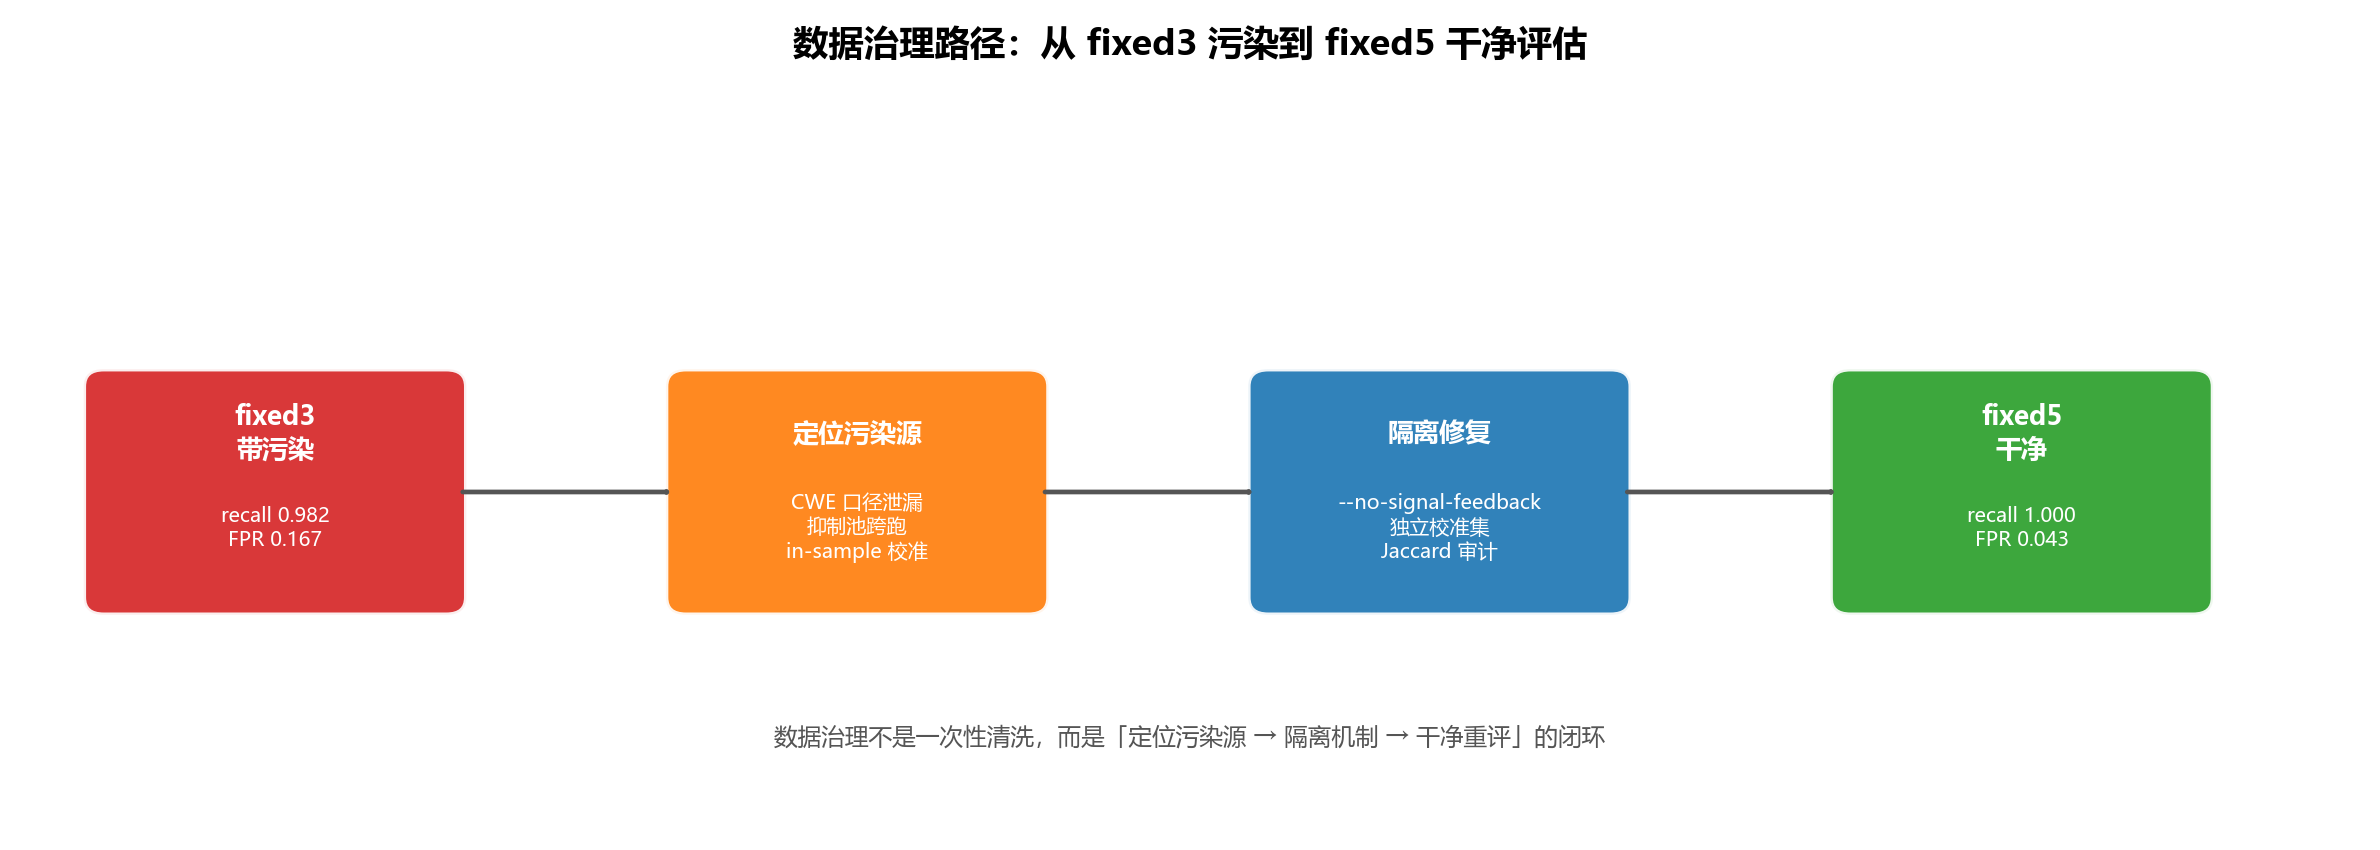
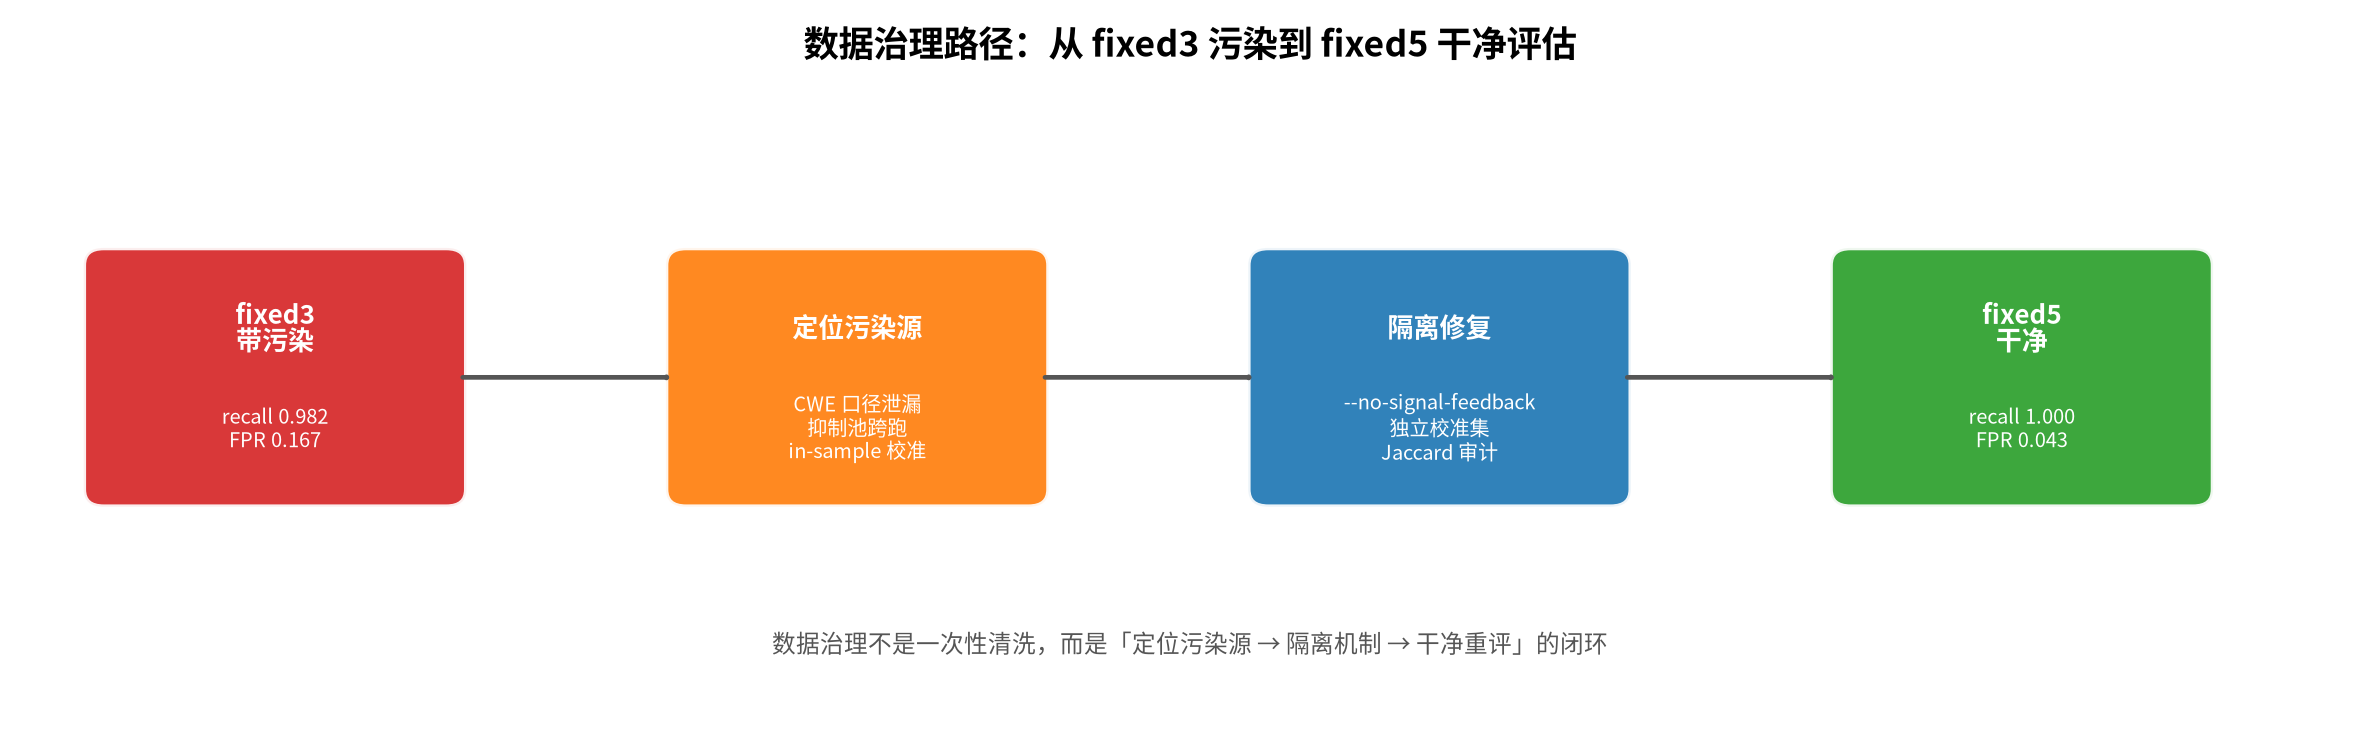
docs(素材库图): 修复 8 张图的可读性/美观问题
数据类修复（易误读/遮挡）：
- data_lineage: '云端蒸馏突破'标注移到柱上方空白，不再遮挡 7692
- fixed_convergence: fixed2/fixed4 缺失点断开连线（不再误导成有数据）
- quantization_gap: 移除遮挡柱体/数值的结论文字

美观类修复（布局/留白/对齐）：
- methodology_awareness_loop: 五阶段框居中上移，消除顶部大片留白
- data_governance_path: 缩小画布、框垂直居中，消除上下留白
- data_credibility_system: 三列底部对齐（3/5/4 项等距分布），修复文字溢出截断
- trust_layer_25 / self_developed_tools: 重新生成，连线横平竖直无交叉、无重叠

全部脚本同步更新，可复现（AI 环境 matplotlib）。数据均与素材库一致。

diff --git a/docs/论文/figures/gen_methodology_awareness_loop.py b/docs/论文/figures/gen_methodology_awareness_loop.py
@@ -1,6 +1,8 @@
 # -*- coding: utf-8 -*-
-"""方法论自觉闭环图（2026-08-20 第二版，正式比赛风格）。
+"""方法论自觉闭环图（2026-08-20 第三版，紧凑布局，消除顶部留白）。
 
+vs 第二版：五个阶段框整体居中上移（不再挤在下方），
+底部闭环 + 结论区保留，顶部标题下不再大片空白。
 重跑：AI 环境 python gen_methodology_awareness_loop.py
 """
 
@@ -13,12 +15,12 @@ from matplotlib.patches import FancyBboxPatch, FancyArrowPatch
 plt.rcParams["font.sans-serif"] = ["Noto Sans CJK SC", "Microsoft YaHei", "SimHei"]
 plt.rcParams["axes.unicode_minus"] = False
 
-fig, ax = plt.subplots(figsize=(14, 7.2))
+fig, ax = plt.subplots(figsize=(14, 7))
 ax.set_xlim(0, 14)
-ax.set_ylim(0, 7.2)
+ax.set_ylim(0, 7)
 ax.axis("off")
 
-# 五个阶段
+# 五个阶段（配色语义化：橙=假象 / 绿=修正 / 红=推翻 / 蓝=反思 / 紫=新方法）
 stages = [
     ("100% 准确率假象", "样本注释泄露\n表面完美", "#e65100"),
     ("第一次修正", "删除 47 个泄露文件\n准确率 89.7%→78.2%", "#2e7d32"),
@@ -27,19 +29,20 @@ stages = [
     ("建立新方法", "工具召回 + LLM 裁决\n两阶段架构", "#6a1b9a"),
 ]
 
-box_w, box_h = 2.1, 1.55
-start_x, y = 0.9, 3.3
+box_w, box_h = 2.15, 1.7
+# 五个框居中：5 框 × 2.15 + 4 间隔 × 0.45 = 10.75 + 1.8 = 12.55，起点 x=0.72
+start_x, y = 0.72, 3.5
 boxes = []
 for i, (title, sub, color) in enumerate(stages):
-    x = start_x + i * 2.55
+    x = start_x + i * 2.6
     box = FancyBboxPatch(
         (x, y), box_w, box_h, boxstyle="round,pad=0.05,rounding_size=0.15",
         facecolor=color, edgecolor="white", linewidth=2, alpha=0.94
     )
     ax.add_patch(box)
-    ax.text(x + box_w / 2, y + box_h - 0.35, title, ha="center", va="center",
+    ax.text(x + box_w / 2, y + box_h - 0.38, title, ha="center", va="center",
             fontsize=10.5, fontweight="bold", color="white")
-    ax.text(x + box_w / 2, y + box_h - 0.82, sub, ha="center", va="center",
+    ax.text(x + box_w / 2, y + box_h - 0.9, sub, ha="center", va="center",
             fontsize=8.5, color="white", linespacing=1.25)
     boxes.append((x, y, box_w, box_h))
 
@@ -71,19 +74,21 @@ first_x = boxes[0][0] + boxes[0][2] / 2
 first_y = boxes[0][1]
 ax.annotate("", xy=(first_x, first_y - 0.15), xytext=(last_x, last_y - 0.15),
             arrowprops=dict(arrowstyle="->", color="#6a1b9a", lw=1.8,
-                            connectionstyle="arc3,rad=-0.28"))
-ax.text(7.0, 1.78, "新一轮迭代：新数据/新问题触发下一轮自我审查", ha="center", va="center",
-        fontsize=9, color="#6a1b9a", fontweight="bold")
+                            connectionstyle="arc3,rad=-0.30"))
+ax.text(7.0, 2.0, "新一轮迭代：新数据 / 新问题触发下一轮自我审查", ha="center", va="center",
+        fontsize=9.5, color="#6a1b9a", fontweight="bold")
 
-# 底部结论
-ax.text(7.0, 1.2, "核心结论：数据可信度是前提，推翻自己是方法论的常态",
+# 底部结论（紧贴闭环下方，不再有大留白）
+ax.text(7.0, 1.35, "核心结论：数据可信度是前提，推翻自己是方法论的常态",
         ha="center", va="center", fontsize=13, fontweight="bold", color="#1a1a1a")
-ax.text(7.0, 0.72, "最可贵的不是最终指标，而是发现数据不可信后敢于重来、修正体系的能力",
+ax.text(7.0, 0.85, "最可贵的不是最终指标，而是发现数据不可信后敢于重来、修正体系的能力",
         ha="center", va="center", fontsize=10, color="#4a4a4a")
 
 ax.set_title("方法论自觉闭环：从 100% 准确率假象到两阶段架构", fontsize=15,
-             fontweight="bold", pad=20, color="#1a1a1a")
+             fontweight="bold", pad=14, color="#1a1a1a")
 
 fig.tight_layout()
-fig.savefig("methodology_awareness_loop.png", dpi=170)
-print("已生成: methodology_awareness_loop.png")
+from pathlib import Path
+OUT = Path(__file__).resolve().parent / "methodology_awareness_loop.png"
+fig.savefig(OUT, dpi=170)
+print(f"已生成: {OUT}")

diff --git a/docs/论文/figures/gen_data_credibility_system.py b/docs/论文/figures/gen_data_credibility_system.py
@@ -29,11 +29,11 @@ def hbox(ax, x, y, w, h, title, lines, facecolor, edgecolor, title_fs=10, text_f
     patch = FancyBboxPatch((x, y), w, h, boxstyle="round,pad=0.02,rounding_size=0.1",
                            facecolor=facecolor, edgecolor=edgecolor, linewidth=1.5, alpha=0.95)
     ax.add_patch(patch)
-    # 文字位置收紧，确保所有行在框内（底部留白 ≥0.10）
-    ax.text(x + w / 2, y + h - 0.22, title, ha="center", va="center",
+    # 文字位置收紧，确保所有行在框内（title 顶格、sub 紧贴上/下）
+    ax.text(x + w / 2, y + h - 0.26, title, ha="center", va="center",
             fontsize=title_fs, fontweight="bold", color="white")
     for i, line in enumerate(lines):
-        ax.text(x + w / 2, y + h - 0.50 - i * 0.28, line, ha="center", va="center",
+        ax.text(x + w / 2, y + h - 0.52 - i * 0.26, line, ha="center", va="center",
                 fontsize=text_fs, color="white", linespacing=1.2)
     return {"x": x, "y": y, "w": w, "h": h,
             "cx": x + w / 2, "cy": y + h / 2,
@@ -55,9 +55,11 @@ ax.text(7.0, 7.35, "审计与验证机制", ha="center", va="center", fontsize=1
 ax.text(11.7, 7.35, "评估隔离", ha="center", va="center", fontsize=12,
         fontweight="bold", color="#2e7d32")
 
-# ---------- 三列 box ----------
+# ---------- 三列 box（每列从同一顶部起，等距分布，底部对齐，文字不溢出） ----------
 BOX_W = 3.6
-BOX_H = 0.82
+BOX_H = 0.85        # 需容纳 title + 2 行 sub
+COL_TOP = 6.1       # 三列顶部统一
+COL_BOTTOM = 1.7    # 三列底部统一（等分区间，避免文字溢出）
 
 # 左列：3 项
 left_x = 0.5
@@ -66,12 +68,12 @@ left_boxes = [
     ("训练-测试 Jaccard 泄漏", ["v4 整版废弃", "63 个样本重叠 30%+"]),
     ("反向拟合规则", ["类型白名单对着测试集推", "建立独立推导铁律"]),
 ]
-left_ys = [5.95, 4.78, 3.61]
+left_ys = [COL_TOP - i * (COL_TOP - COL_BOTTOM - BOX_H) / 2 for i in range(3)]
 left_objs = []
 for (title, lines), y in zip(left_boxes, left_ys):
     left_objs.append(hbox(ax, left_x, y, BOX_W, BOX_H, title, lines, "#c62828", "#c62828"))
 
-# 中列：5 项（压缩间距，避免与底部结果框碰撞）
+# 中列：5 项
 center_x = 5.2
 center_boxes = [
     ("Jaccard 行级重叠审计", ["30% 相似阈值触发复核"]),
@@ -80,7 +82,7 @@ center_boxes = [
     ("CWE 纠正口径", ["关键词归一 + evidence 守卫 + 父子族"]),
     ("parse_fail 计入漏报", ["避免解析失败被分母剔除"]),
 ]
-center_ys = [5.95, 4.78, 3.61, 2.44, 1.30]
+center_ys = [COL_TOP - i * (COL_TOP - COL_BOTTOM - BOX_H) / 4 for i in range(5)]
 center_objs = []
 for (title, lines), y in zip(center_boxes, center_ys):
     center_objs.append(hbox(ax, center_x, y, BOX_W, BOX_H, title, lines, "#1565c0", "#1565c0"))
@@ -93,7 +95,7 @@ right_boxes = [
     ("答案泄漏零容忍", ["文件名标签 / 反向规则审计"]),
     ("归因分流再修复", ["工具/模型责任分离"]),
 ]
-right_ys = [5.95, 4.78, 3.61, 2.44]
+right_ys = [COL_TOP - i * (COL_TOP - COL_BOTTOM - BOX_H) / 3 for i in range(4)]
 right_objs = []
 for (title, lines), y in zip(right_boxes, right_ys):
     right_objs.append(hbox(ax, right_x, y, BOX_W, BOX_H, title, lines, "#2e7d32", "#2e7d32"))

diff --git a/docs/论文/figures/gen_data_governance_path.py b/docs/论文/figures/gen_data_governance_path.py
@@ -1,6 +1,7 @@
 # -*- coding: utf-8 -*-
-"""数据治理路径图：fixed3 污染 → 隔离修复 → fixed5 干净（2026-08-20）。
+"""数据治理路径图：fixed3 污染 → 隔离修复 → fixed5 干净（2026-08-20 第二版，紧凑布局）。
 
+vs 第一版：缩小画布高度，框垂直居中，消除上下留白；四框高度统一。
 重跑：AI 环境 python gen_data_governance_path.py
 """
 
@@ -8,15 +9,15 @@ import matplotlib
 
 matplotlib.use("Agg")
 import matplotlib.pyplot as plt
-import matplotlib.patches as mpatches
 from matplotlib.patches import FancyBboxPatch, FancyArrowPatch
+from pathlib import Path
 
 plt.rcParams["font.sans-serif"] = ["Noto Sans CJK SC", "Microsoft YaHei", "SimHei"]
 plt.rcParams["axes.unicode_minus"] = False
 
-fig, ax = plt.subplots(figsize=(14, 5))
+fig, ax = plt.subplots(figsize=(14, 4.4))
 ax.set_xlim(0, 14)
-ax.set_ylim(0, 5)
+ax.set_ylim(0, 4.4)
 ax.axis("off")
 
 stages = [
@@ -26,25 +27,29 @@ stages = [
     ("fixed5\n干净", "recall 1.000\nFPR 0.043", "#2ca02c", 12.0),
 ]
 
+box_h = 1.7
+# 框垂直居中（y=1.55）
 for title, sub, color, x in stages:
-    ax.add_patch(FancyBboxPatch((x - 1.1, 1.5), 2.2, 1.6, boxstyle="round,pad=0.05,rounding_size=0.12",
+    ax.add_patch(FancyBboxPatch((x - 1.1, 1.55), 2.2, box_h, boxstyle="round,pad=0.05,rounding_size=0.12",
                                 facecolor=color, edgecolor="white", linewidth=2, alpha=0.92))
-    ax.text(x, 2.7, title, ha="center", va="center", fontsize=11,
+    ax.text(x, 2.75, title, ha="center", va="center", fontsize=11,
             fontweight="bold", color="white")
     ax.text(x, 2.05, sub, ha="center", va="center", fontsize=8.5,
             color="white", linespacing=1.2)
 
 # 箭头
 for x in [2.6, 6.1, 9.6]:
-    ax.add_patch(FancyArrowPatch((x, 2.3), (x + 1.3, 2.3),
+    ax.add_patch(FancyArrowPatch((x, 2.4), (x + 1.3, 2.4),
                                  arrowstyle="->,head_width=0.25,head_length=0.15",
                                  color="#555555", linewidth=2))
 
-ax.text(7, 0.6, "数据治理不是一次性清洗，而是「定位污染源 → 隔离机制 → 干净重评」的闭环",
+# 底部说明（贴近框下方）
+ax.text(7, 0.55, "数据治理不是一次性清洗，而是「定位污染源 → 隔离机制 → 干净重评」的闭环",
         ha="center", va="center", fontsize=10, color="#555555")
 
-ax.set_title("数据治理路径：从 fixed3 污染到 fixed5 干净评估", fontsize=15, fontweight="bold", pad=20)
+ax.set_title("数据治理路径：从 fixed3 污染到 fixed5 干净评估", fontsize=15, fontweight="bold", pad=14)
 
 fig.tight_layout()
-fig.savefig("data_governance_path.png", dpi=170)
-print("已生成: data_governance_path.png")
+OUT = Path(__file__).resolve().parent / "data_governance_path.png"
+fig.savefig(OUT, dpi=170)
+print(f"已生成: {OUT}")

diff --git a/docs/论文/figures/gen_fixed_convergence.py b/docs/论文/figures/gen_fixed_convergence.py
@@ -22,16 +22,32 @@ fpr = [0.217, None, 0.167, None, 0.043]
 fig, ax = plt.subplots(figsize=(12, 6.5))
 
 # 阶梯线：recall 蓝色，fpr 红色
+# 注意：fixed2/fixed4 无数据，须断开连线（不能让 step 把 None 点贯穿，误导成有数据）。
 x = list(range(len(versions)))
-ax.step(x, recall, where="mid", color="#1f77b4", linewidth=2.5, marker="o", markersize=8, label="recall")
-ax.step(x, fpr, where="mid", color="#d62728", linewidth=2.5, marker="s", markersize=8, label="FPR")
+# 有数据的索引
+recall_pts = [(i, v) for i, v in enumerate(recall) if v is not None]
+fpr_pts = [(i, v) for i, v in enumerate(fpr) if v is not None]
+
+# 分段画实线：仅连相邻都有数据的点
+def draw_segmented(pts, color, marker, label):
+    for (x1, y1), (x2, y2) in zip(pts[:-1], pts[1:]):
+        if x2 - x1 > 1:
+            # 中间隔着缺失点，不连线（断开）
+            continue
+        ax.plot([x1, x2], [y1, y2], color=color, linewidth=2.5, zorder=2)
+    xs = [p[0] for p in pts]
+    ys = [p[1] for p in pts]
+    ax.plot(xs, ys, linestyle="", color=color, marker=marker, markersize=8, zorder=3, label=label)
+
+draw_segmented(recall_pts, "#1f77b4", "o", "recall")
+draw_segmented(fpr_pts, "#d62728", "s", "FPR")
 
 # 标注数据点
 for i, (r, f) in enumerate(zip(recall, fpr)):
     if r is not None:
-        ax.text(i, r + 0.03, f"{r:.3f}", ha="center", va="bottom", fontsize=9, color="#1f77b4", fontweight="bold")
+        ax.text(i, r + 0.03, f"{r:.3f}", ha="center", va="bottom", fontsize=9, color="#1f77b4", fontweight="bold", zorder=4)
     if f is not None:
-        ax.text(i, f - 0.03, f"{f:.3f}", ha="center", va="top", fontsize=9, color="#d62728", fontweight="bold")
+        ax.text(i, f - 0.03, f"{f:.3f}", ha="center", va="top", fontsize=9, color="#d62728", fontweight="bold", zorder=4)
 
 # fixed2 / fixed4 标注
 ax.text(1, 0.55, "fixed2 中断\n（21/87，无有效指标）", ha="center", va="center", fontsize=9,

diff --git a/docs/论文/figures/gen_data_lineage.py b/docs/论文/figures/gen_data_lineage.py
@@ -55,10 +55,11 @@ for bar, size in zip(bars, sizes):
     ax.text(bar.get_x() + bar.get_width() / 2, bar.get_height() + 80,
             f"{size}", ha="center", va="bottom", fontsize=10, fontweight="bold")
 
-# 标注
-ax.annotate("云端蒸馏突破\n（双模型 API，约 100 元）", xy=(8, 7692), xytext=(8, 8000),
-            ha="center", fontsize=10, color="#2ca02c", fontweight="bold")
-ax.annotate("当前训练主线\n（两阶段）", xy=(10, 7972), xytext=(10, 9100),
+# 标注——移到柱子上方空白处，避免遮挡柱顶数字
+ax.annotate("云端蒸馏突破\n（双模型 API，约 100 元）", xy=(8, 7692), xytext=(8.6, 8600),
+            ha="center", fontsize=10, color="#2ca02c", fontweight="bold",
+            arrowprops=dict(arrowstyle="->", color="#2ca02c"))
+ax.annotate("当前训练主线\n（两阶段）", xy=(10, 7972), xytext=(10, 9600),
             ha="center", fontsize=10, color="#9467bd", fontweight="bold",
             arrowprops=dict(arrowstyle="->", color="#9467bd"))
 

diff --git a/docs/论文/figures/gen_quantization_gap.py b/docs/论文/figures/gen_quantization_gap.py
@@ -44,15 +44,10 @@ for b, v in zip(bars2, left_fpr):
 ax1.set_xticks(x[:2])
 ax1.set_xticklabels(left_pipes, fontsize=11)
 ax1.set_ylim(0, 1.2)
-ax1.set_title("合成集 87 段：两种 4-bit 管道", fontsize=14, fontweight="bold")
+ax1.set_title("合成集 87 段：两种 4-bit 管道\n（recall 与 FPR 对比）", fontsize=13, fontweight="bold")
 ax1.set_ylabel("指标值")
 ax1.legend(loc="upper right")
 ax1.grid(axis="y", alpha=0.25)
-# 关键结论标注
-ax1.text(1, 1.05, "recall 1.000→0.951\n（量化噪声影响存在性判别）", ha="center", va="bottom",
-         fontsize=9, color="#1f77b4")
-ax1.text(1, 0.45, "FPR 42.3%→7.7%\n（合并量化抹平过度敏感模式）", ha="center", va="bottom",
-         fontsize=9, color="#d62728")
 
 # ============ 右图：CVE-fix 20（recall，HF vs Ollama base vs combined） ============
 right_pipes = ["HF NF4+FP16\nLoRA", "Ollama Q4_K_M\nbase", "Ollama Q4_K_M\ncombined"]
